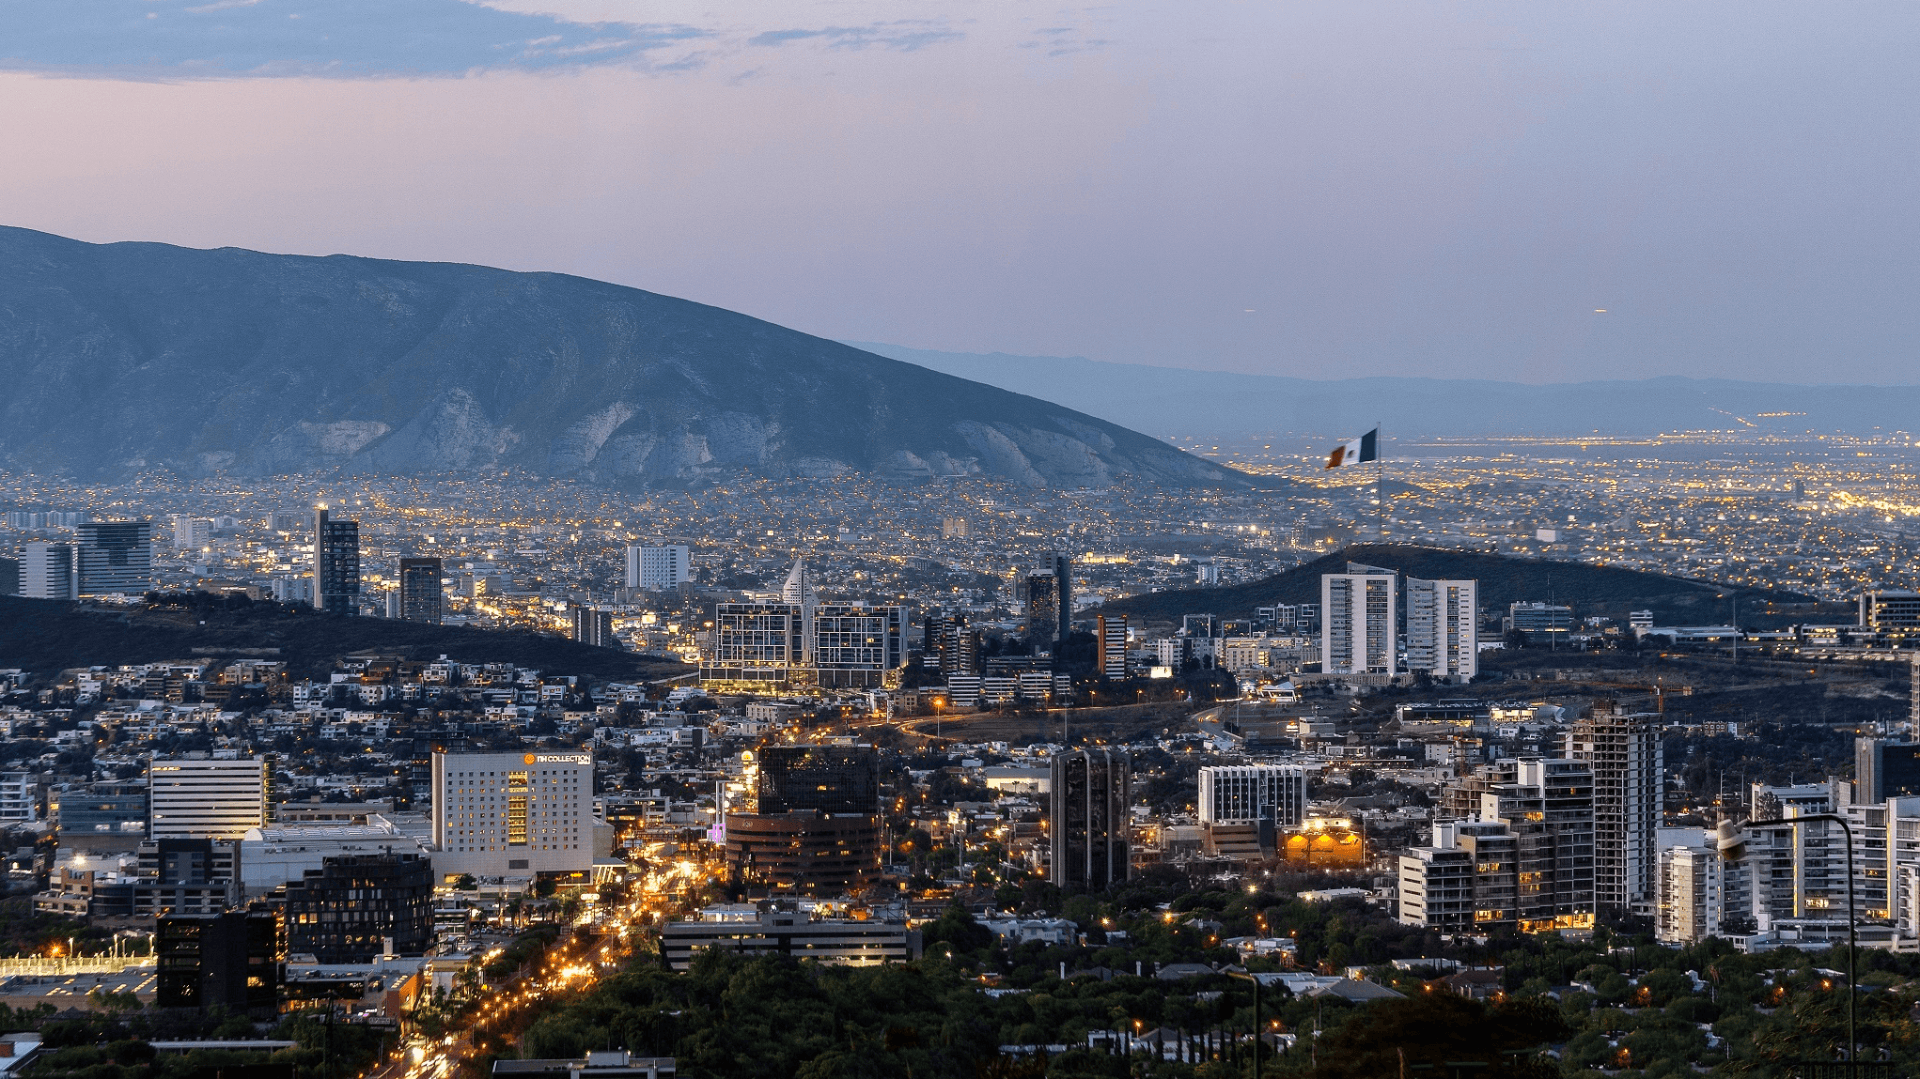
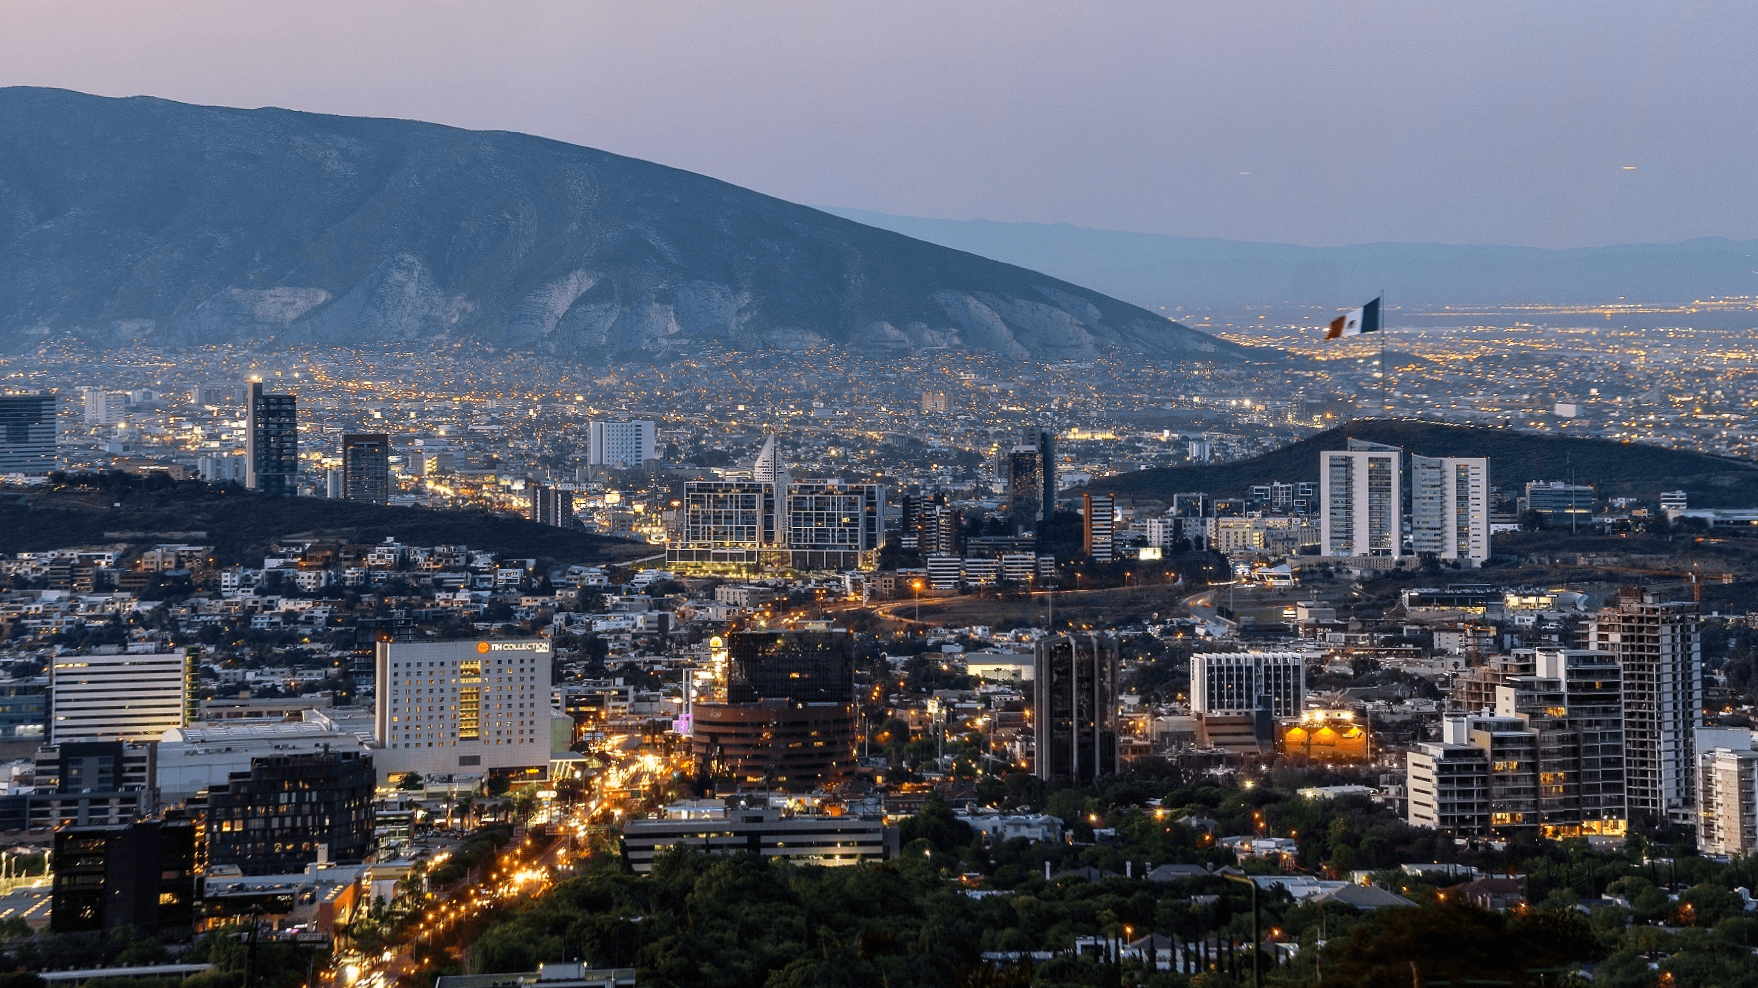
V2.0.4
Cover image

diff --git a/css/main.css b/css/main.css
@@ -96,9 +96,10 @@ a:focus {
 .home {
 	background: url(../img/mtyhome.png) no-repeat top fixed;
 	position: relative;
+	height: 100%;
 	width: 100%;
 	position: relative;
-	background-size: auto !100%;
+	background-size: cover;
 }
 .slide {
 	position: absolute;
